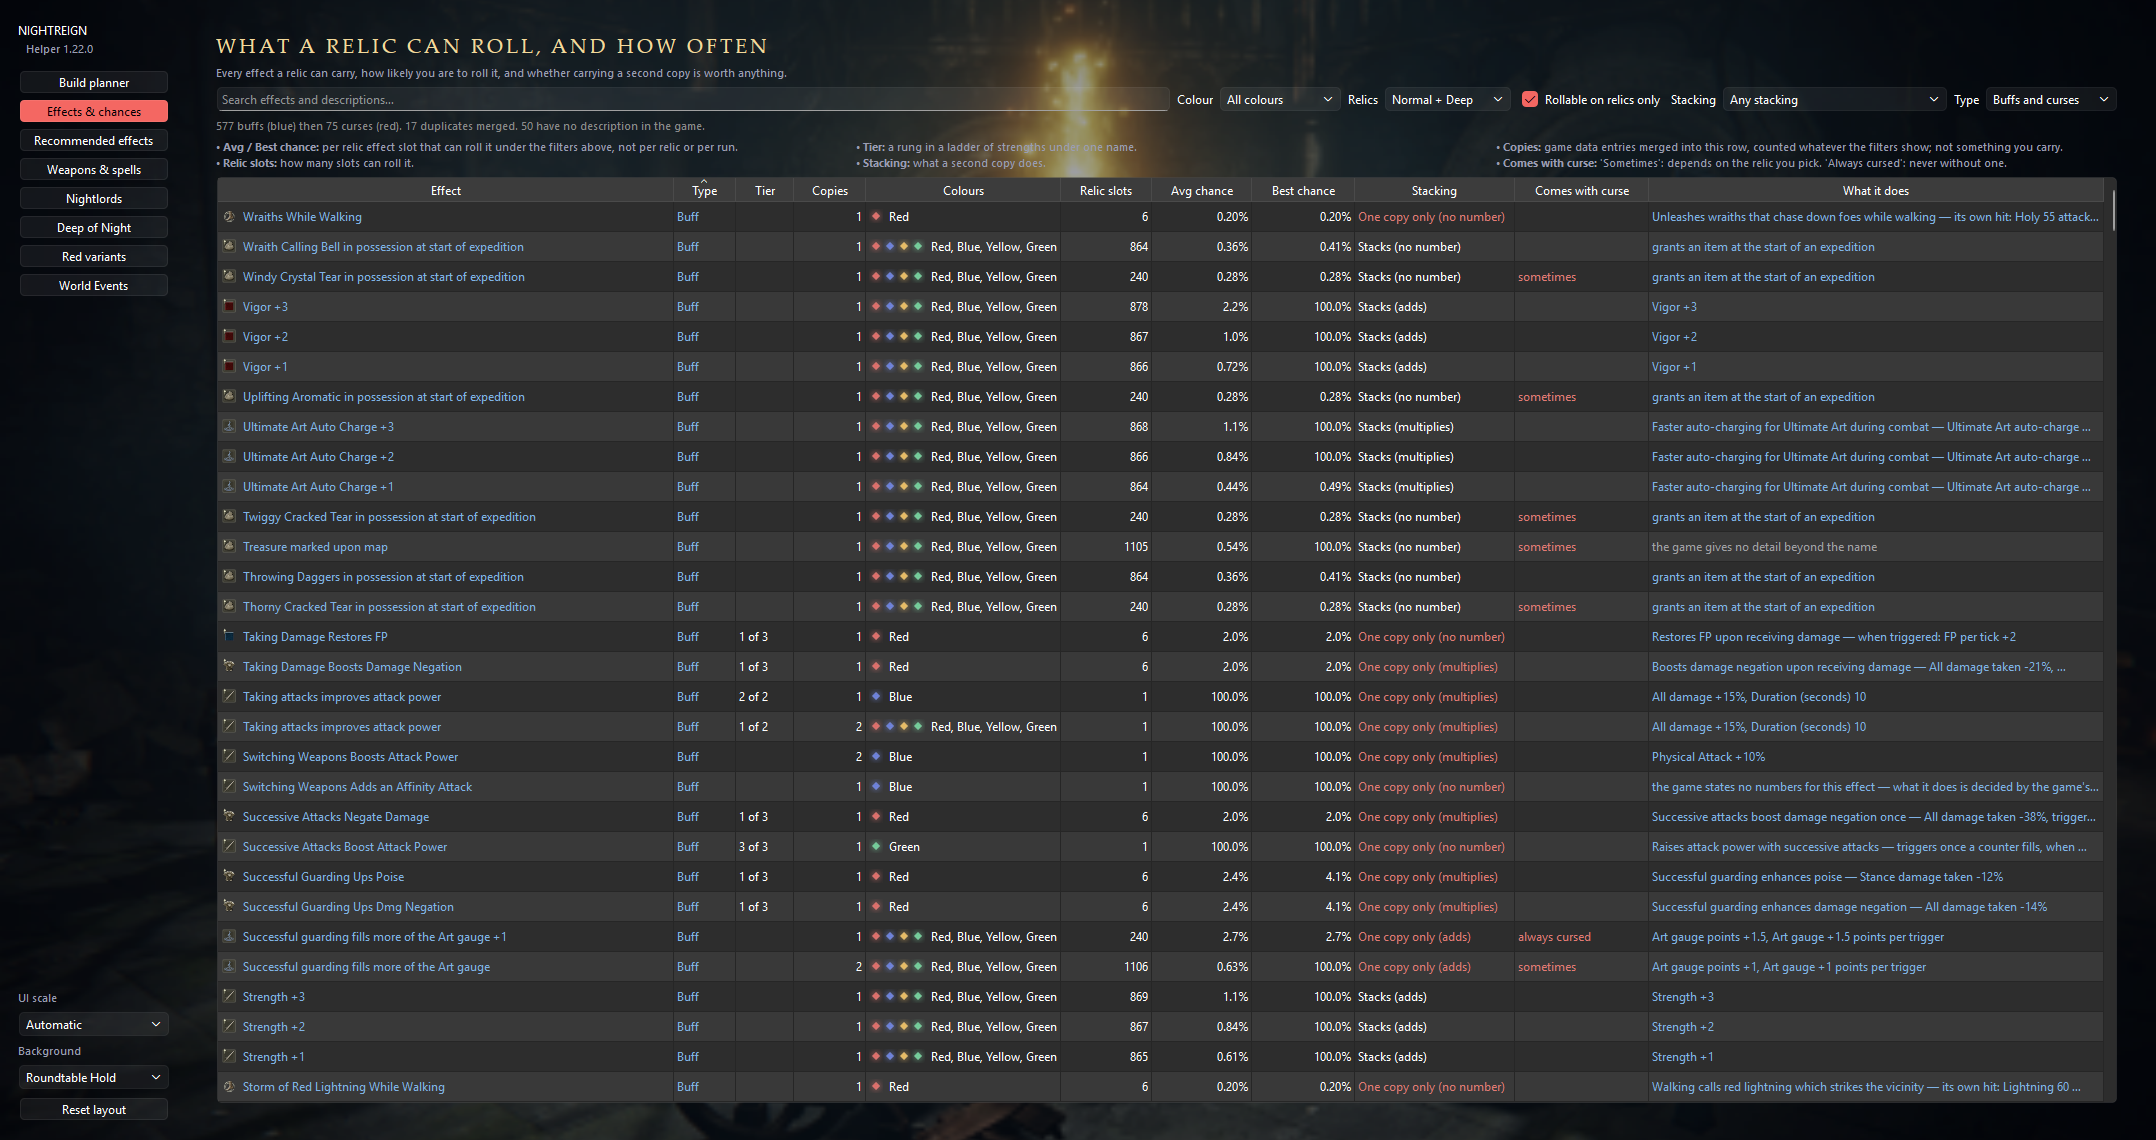
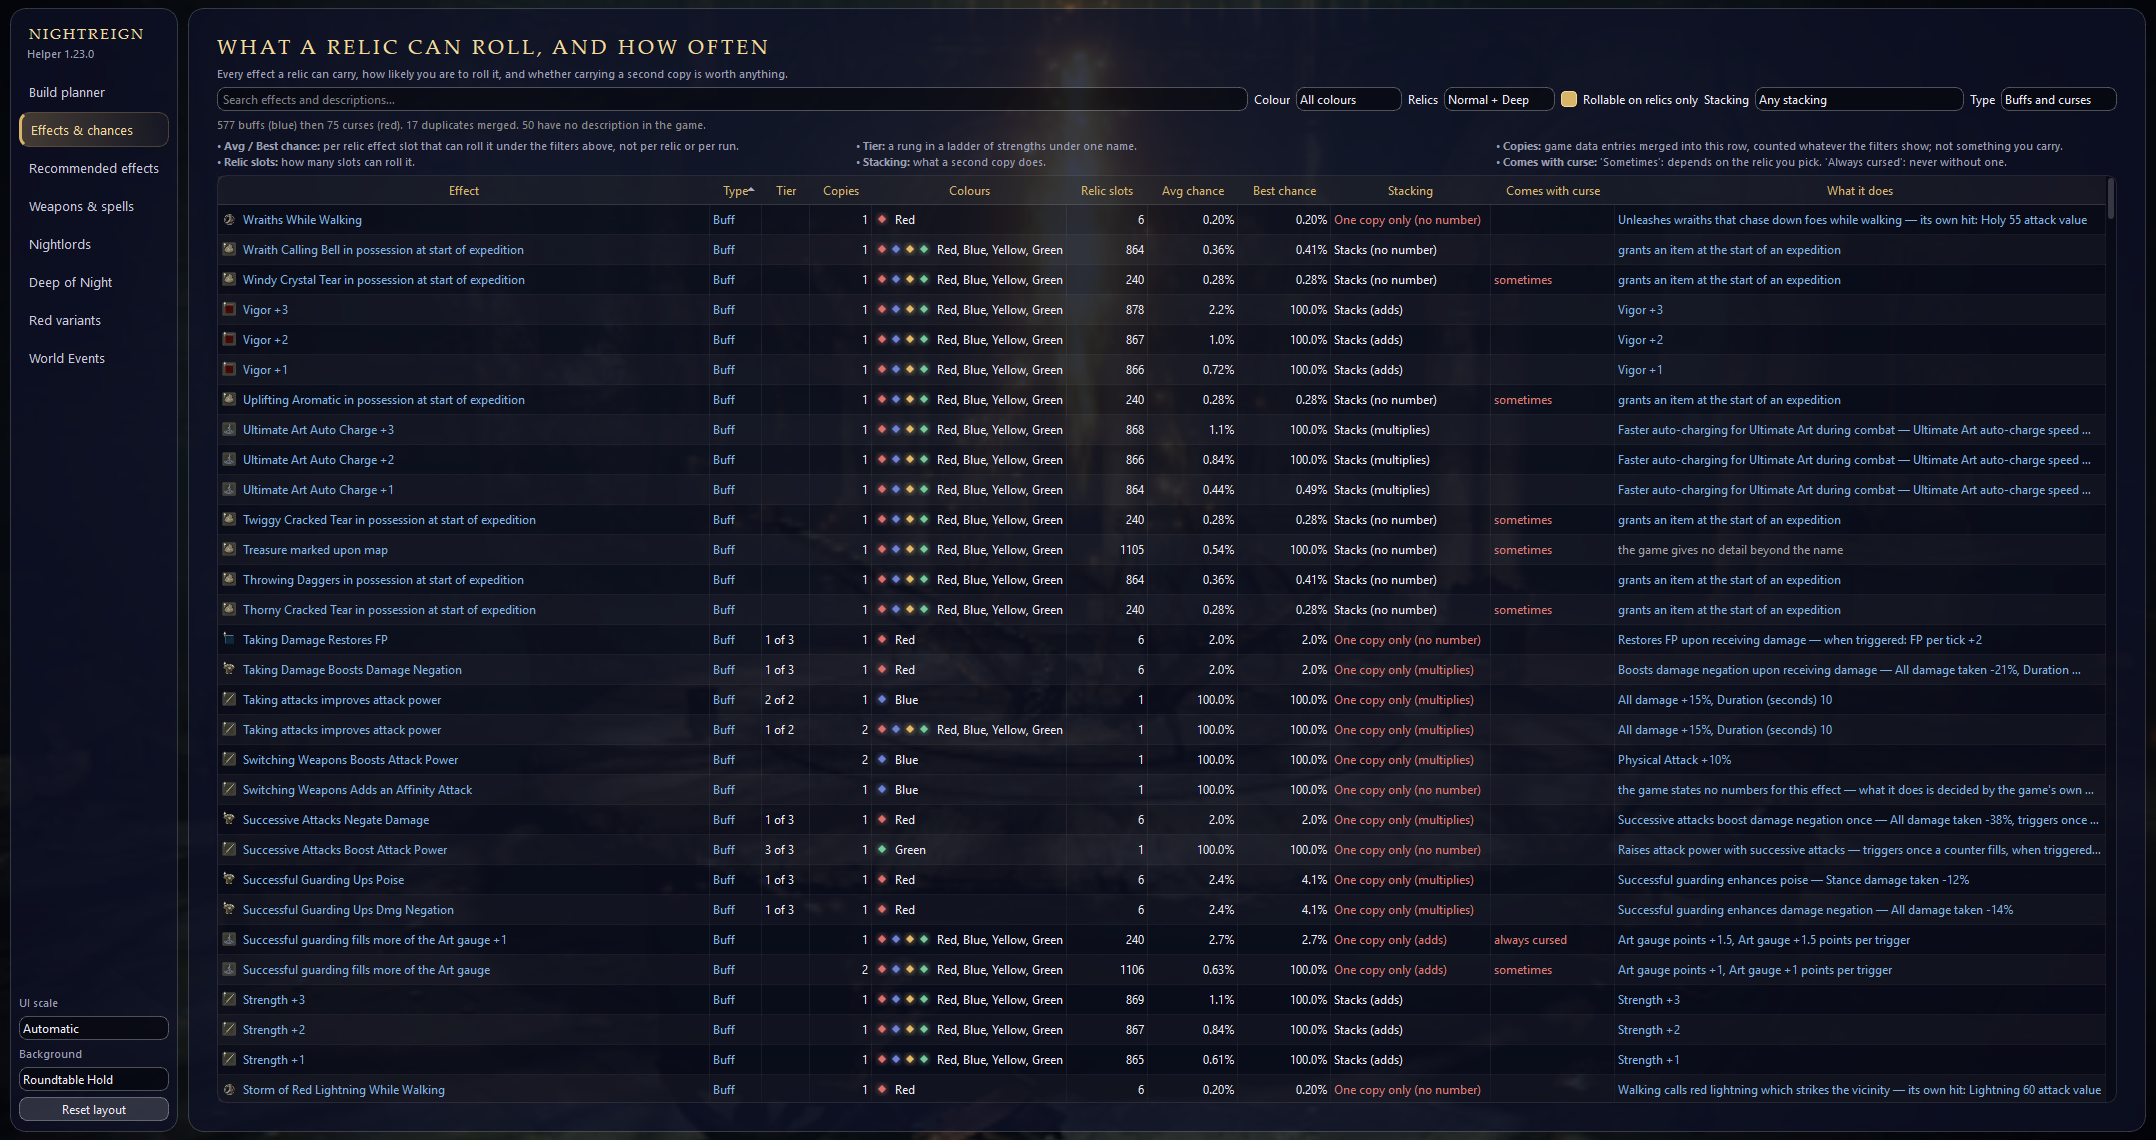
fix(screenshots): Bilder mit dem Aussehen des Programms statt grauer Bloecke
- Ursache: make_screenshots.py rief apply_appearance() nicht auf. Stil,
  Palette und das eine Stylesheet setzt main(), nicht das Fenster; ohne den
  Aufruf wurden die Glasflaechen als graue Bloecke fotografiert. Die Bilder
  aus c241d10 und cb03e23 zeigten deshalb nicht, was das Programm zeigt.
- make_screenshots.py ruft apply_appearance(app) wie main() und die Tests
- alle elf Bilder neu, Hintergrund weiter "Roundtable Hold"; geprueft:
  nightlords.png 11 Prosabloecke (S1), world_events.png zeigt Fell Omen
  (S2), 2156 x 1140 (S3)

diff --git a/scripts/make_screenshots.py b/scripts/make_screenshots.py
@@ -61,7 +61,7 @@ from PySide6.QtCore import QEventLoop, Qt, QTimer
 from PySide6.QtWidgets import QAbstractItemView, QApplication
 
 from nrplanner import backdrop, effectfilterdialog, firstrun
-from nrplanner.app import Planner
+from nrplanner.app import Planner, apply_appearance
 from nrplanner.datasource import load_data
 from nrplanner.statsheet import SituationalRow
 
@@ -228,6 +228,10 @@ def main() -> None:
     out.mkdir(parents=True, exist_ok=True)
 
     app = QApplication(sys.argv)
+    # Style, palette and the one style sheet, as `main` sets them. Without
+    # this the panels are photographed as grey blocks instead of glass: the
+    # translucent panels are the application's style sheet, not the window's.
+    apply_appearance(app)
     window = Planner(load_data())
     window.backdrop.choose(backdrop.DEFAULT)
     window.backdrop_box.setCurrentIndex(
